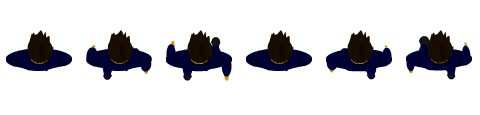
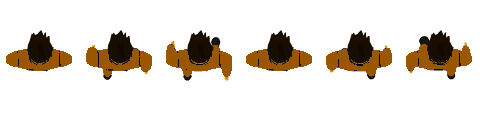
Zombies de colores

Changed region(s): [[0.0, 0.3913, 1.0, 0.6783]]

diff --git a/Shooter2D/src/org/escoladeltreball/shooter2d/entities/Zombie.java b/Shooter2D/src/org/escoladeltreball/shooter2d/entities/Zombie.java
@@ -74,7 +74,7 @@ public class Zombie extends IAEntity implements Walking, Attacking, Targeting {
 		this.attackCooldown = new Cooldown(zombie_attack_timer);
 		Body body = BodyFactory.createZombieBody(pX, pY);
 		this.setBody(body);
-		this.setColor(Color.GREEN);
+//		this.setColor(Color.GREEN);
 		this.setMaxHealthPoints(HPConstants.ZOMBIE_HEALTH);
 		this.setHealthpoints(HPConstants.ZOMBIE_HEALTH);
 	}
